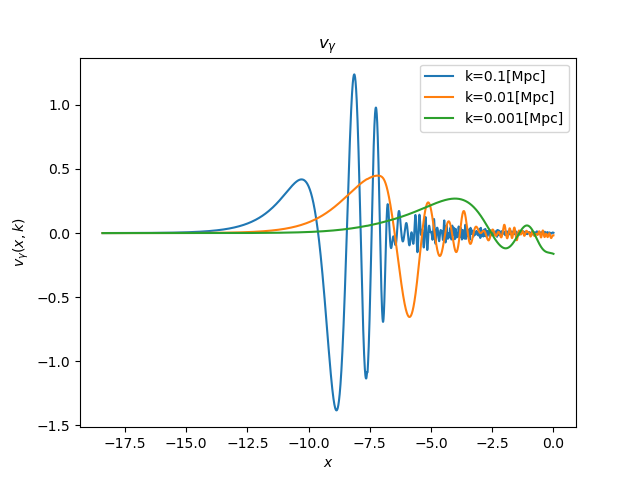
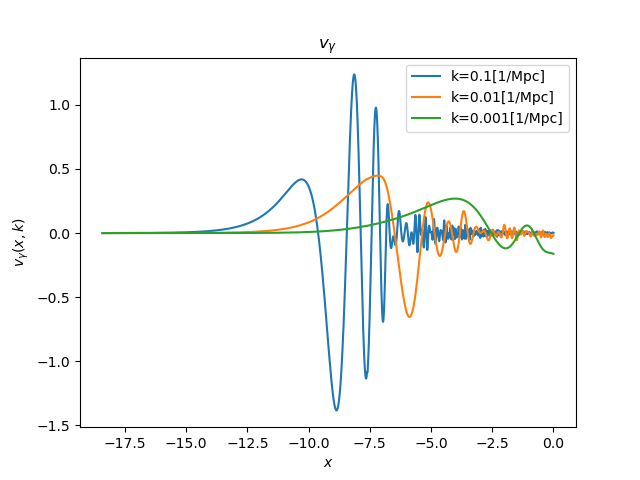
Changes and milestomn git add . clear

Changed region(s): [[0.6875, 0.125, 0.875, 0.2812], [0.625, 0.1562, 0.6562, 0.25]]

diff --git a/Plot_Milestone3.py b/Plot_Milestone3.py
@@ -41,13 +41,11 @@ v_cdm_001     = data001[:, 9]
 ST_001        = data001[:, 10]
 
 
-plt.plot(x,ST_1)
-plt.show()
-'''plt.plot(x, delta_cdm_1,label=r'$\delta_{CDM}$ - k=0.1[Mpc]')
-plt.plot(x, delta_cdm_01,label=r'$\delta_{CDM}$ - k=0.01[Mpc]')
-plt.plot(x, delta_cdm_001,label=r'$\delta_{CDM}$ - k=0.001[Mpc]')
-plt.plot(x, np.abs(delta_b_1),'--',label=r'$\delta_b$ - k=0.1[Mpc]')
-plt.plot(x, np.abs(delta_b_01),'--',label=r'$\delta_b$ - k=0.01[Mpc]')
+plt.plot(x, delta_cdm_1,label=r'$\delta_{CDM}$ - k=0.1[1/Mpc]')
+plt.plot(x, delta_cdm_01,label=r'$\delta_{CDM}$ - k=0.01[1/Mpc]')
+plt.plot(x, delta_cdm_001,label=r'$\delta_{CDM}$ - k=0.001[1/Mpc]')
+plt.plot(x, np.abs(delta_b_1),'--',label=r'$\delta_b$ - k=0.1[1/Mpc]')
+plt.plot(x, np.abs(delta_b_01),'--',label=r'$\delta_b$ - k=0.01[1/Mpc]')
 plt.plot(x, np.abs(delta_b_001),'--',label=r'$\delta_b$ - k=0.001[Mpc]')
 plt.yscale('log')
 plt.legend()
@@ -58,12 +56,12 @@ plt.ylabel(r'$\delta_{CDM}(x,k),\delta_b(x,k)$')
 plt.show()
 
 
-plt.plot(x, v_cdm_1,label=r'$v_{CDM}$ - k=0.1[Mpc]')
-plt.plot(x, v_cdm_01,label=r'$v_{CDM}$ - k=0.01[Mpc]')
-plt.plot(x, v_cdm_001,label=r'$v_{CDM}$ - k=0.001[Mpc]')
-plt.plot(x, np.abs(v_b_1),'--',label=r'$v_b$ - k=0.1[Mpc]')
-plt.plot(x, np.abs(v_b_01),'--',label=r'$v_b$ - k=0.01[Mpc]')
-plt.plot(x, np.abs(v_b_001),'--',label=r'$v_b$ - k=0.001[Mpc]')
+plt.plot(x, v_cdm_1,label=r'$v_{CDM}$ - k=0.1[1/Mpc]')
+plt.plot(x, v_cdm_01,label=r'$v_{CDM}$ - k=0.01[1/Mpc]')
+plt.plot(x, v_cdm_001,label=r'$v_{CDM}$ - k=0.001[1/Mpc]')
+plt.plot(x, np.abs(v_b_1),'--',label=r'$v_b$ - k=0.1[1/Mpc]')
+plt.plot(x, np.abs(v_b_01),'--',label=r'$v_b$ - k=0.01[1/Mpc]')
+plt.plot(x, np.abs(v_b_001),'--',label=r'$v_b$ - k=0.001[1/Mpc]')
 plt.yscale('log')
 plt.legend()
 plt.title(r'$v_b, v_{CDM}$')
@@ -73,9 +71,9 @@ plt.ylabel(r'$v_b(x,k), v_{CDM}(x,k)$')
 plt.show()
 
 
-plt.plot(x, 4*theta_1,label='k=0.1[Mpc]')
-plt.plot(x, 4*theta_01,label='k=0.01[Mpc]')
-plt.plot(x, 4*theta_001,label='k=0.001[Mpc]')
+plt.plot(x, 4*theta_1,label='k=0.1[1/Mpc]')
+plt.plot(x, 4*theta_01,label='k=0.01[1/Mpc]')
+plt.plot(x, 4*theta_001,label='k=0.001[1/Mpc]')
 plt.legend()
 plt.title(r'$\delta_\gamma$')
 plt.xlabel(r'$x$')
@@ -84,9 +82,9 @@ plt.ylabel(r'$\delta_\gamma(x,k)$')
 plt.show()
 
 
-plt.plot(x, -3*theta1_1,label='k=0.1[Mpc]')
-plt.plot(x, -3*theta1_01,label='k=0.01[Mpc]')
-plt.plot(x, -3*theta1_001,label='k=0.001[Mpc]')
+plt.plot(x, -3*theta1_1,label='k=0.1[1/Mpc]')
+plt.plot(x, -3*theta1_01,label='k=0.01[1/Mpc]')
+plt.plot(x, -3*theta1_001,label='k=0.001[1/Mpc]')
 plt.legend()
 plt.title(r'$v_\gamma$')
 plt.xlabel(r'$x$')
@@ -95,9 +93,9 @@ plt.ylabel(r'$v_\gamma(x,k)$')
 plt.show()
 
 
-plt.plot(x, phi_1,label='k=0.1[Mpc]')
-plt.plot(x, phi_01,label='k=0.01[Mpc]')
-plt.plot(x, phi_001,label='k=0.001[Mpc]')
+plt.plot(x, phi_1,label='k=0.1[1/Mpc]')
+plt.plot(x, phi_01,label='k=0.01[1/Mpc]')
+plt.plot(x, phi_001,label='k=0.001[1/Mpc]')
 plt.legend()
 plt.title(r'$\Phi$')
 plt.xlabel(r'$x$')
@@ -115,4 +113,3 @@ plt.xlabel(r'$x$')
 plt.ylabel(r'$\Psi(x,k)$')
 #plt.savefig('/Users/andreaswetzel/Documents/Master_Astro/2_semester/AST5220/AST5220-Cosmology/Figures_M3/psi.png')
 plt.show()
-'''

diff --git a/Plot_Milestone4.py b/Plot_Milestone4.py
@@ -7,11 +7,19 @@ CMB_ell  = CMB_data[:, 0]
 CMB_cell = CMB_data[:, 1]
 
 
-TT_data = np.loadtxt('low_ell_TT_data.txt',skiprows=1)
-TT_ell      = TT_data[:,0]
-TT_cell     = TT_data[:,1]
-TT_err_up   = TT_data[:,2]
-TT_err_down = TT_data[:,3]
+low_TT_data = np.loadtxt('low_ell_TT_data.txt',skiprows=1)
+low_TT_ell      = low_TT_data[:,0]
+low_TT_cell     = low_TT_data[:,1]
+low_TT_err_up   = low_TT_data[:,2]
+low_TT_err_down = low_TT_data[:,3]
+
+
+high_TT_data = np.loadtxt('high_ell_TT_data.txt',skiprows=1)
+high_TT_ell      = high_TT_data[:,0]
+high_TT_cell     = high_TT_data[:,1]
+high_TT_err_up   = high_TT_data[:,2]
+high_TT_err_down = high_TT_data[:,3]
+
 
 
 theta_data = np.loadtxt('theta_output.txt')
@@ -22,7 +30,7 @@ theta_100  = theta_data[:, 3]
 theta_200  = theta_data[:, 4]
 theta_500  = theta_data[:, 5]
 theta_1000 = theta_data[:, 6]
-eta0       = theta_data[:, 7]
+eta0       = 14253.3 # Mpc
 
 matter_data = np.loadtxt("matter_output.txt")
 kch         = matter_data[:,0]
@@ -33,31 +41,35 @@ theta_values = [theta_6,theta_100,theta_200,theta_500,theta_1000]
 theta_label  = [r"$\ell=6$",r"$\ell=100$",r"$\ell=200$",r"$\ell=500$",r"$\ell=1000$"]
 ell_values   = [6,100,200,500,1000]
 
-plt.plot(CMB_ell,CMB_cell)
-plt.errorbar(TT_ell,TT_cell,np.array([TT_err_down,TT_err_up]),fmt='o',markersize=2)
+'''plt.plot(CMB_ell,CMB_cell)
+plt.errorbar(low_TT_ell,low_TT_cell,np.array([low_TT_err_down,low_TT_err_up]),fmt='o',markersize=2,c='r')
+plt.errorbar(high_TT_ell,high_TT_cell,np.array([high_TT_err_down,high_TT_err_up]),fmt='o',markersize=2,c='r')
 plt.xscale('log')
 plt.title("CMB Power Spectrum")
 plt.xlabel(r'Multipole ${\ell}$')
 plt.ylabel(r'$\ell(\ell+1)C_\ell$ $(\mu K)^2$')
 plt.savefig('/Users/andreaswetzel/Documents/Master_Astro/2_semester/AST5220/AST5220-Cosmology/Figures_M4/CMB_PS.png')
 plt.show()
+'''
+
 
 
 for i in range(5):
-    plt.plot(kcH0,theta_values[i],label=theta_label[i])
+    plt.plot(k_theta,theta_values[i],label=theta_label[i])
 
-
-#plt.axvline(x=100/eta0, ls='--', color='black', label=r'$k = \ell/\eta_0$')
-
-
-plt.legend()
-plt.title('Transfer Function $\Theta_{\ell}(k)$')
-plt.xlabel(r'$ck/H_0$')
+plt.axvline(x=6/eta0, ls='--', color='black',label=r'$k = \ell/\eta_0$')
+plt.axvline(x=100/eta0, ls='--', color='black')
+plt.axvline(x=200/eta0, ls='--', color='black')
+plt.axvline(x=500/eta0, ls='--', color='black')
+plt.axvline(x=1000/eta0, ls='--', color='black')
+plt.xlabel(r'$k$' + ' [Mpc' + r'$^{-1}$' + ']')
 plt.ylabel(r'$\Theta_\ell$')
+plt.tight_layout()
+plt.legend()
 plt.savefig('/Users/andreaswetzel/Documents/Master_Astro/2_semester/AST5220/AST5220-Cosmology/Figures_M4/theta_ell.png')
 plt.show()
 
-
+'''
 for i in range(5):
     plt.plot(kcH0,theta_values[i]**2/k_theta,label=theta_label[i])
 
@@ -80,3 +92,4 @@ plt.ylabel(r'$P(k)[(Mpc/h)^3]$')
 plt.legend()
 plt.savefig('/Users/andreaswetzel/Documents/Master_Astro/2_semester/AST5220/AST5220-Cosmology/Figures_M4/MPS.png')
 plt.show()
+'''

diff --git a/Plot_Milestone1.py b/Plot_Milestone1.py
@@ -78,32 +78,38 @@ a_mlam = ((get_OmegaB[idx]+get_OmegaCDM[idx]) / get_OmegaLambda[idx])**(1/3) #Ma
 a_acc = ((get_OmegaB[idx]+get_OmegaCDM[idx]) / (2*get_OmegaLambda[idx]))**(1/3) #Accelerating universe
 
 
+Hx_H0 = [] #H/H_0
+for i in range(len(H0)):
+    Hx_H0.append(float(H_of_x[i]/H0[i]))
 
+Hp_H0 = [] #H/H_0
+for i in range(len(H0)):
+    Hp_H0.append(float(Hp_of_x[i]/H0[i]))
 
-plt.plot(a,H_of_x)
-plt.ylabel(r"$H(a)$")
+plt.plot(a,Hx_H0)
+plt.ylabel(r"$\frac{H}{H_0}$")
 plt.xlabel('Scalefactor a')
 plt.title('Hubble Parameter')
-plt.vlines(a_rm,-1e-5,1e-5,linestyles ="dashed",label='Matter-Radiation equality',color='b')
-plt.vlines(a_mlam,-1e-5,1e-5,linestyles ="dashed",label='Matter-Dark energy equality',color='g')
-plt.vlines(a_acc,-1e-5,1e-5,linestyles ="dashed",label='Accelerating universe',color='r')
+plt.vlines(a_rm,-1e-1,1e10,linestyles ="dashed",label='Matter-Radiation equality',color='b')
+plt.vlines(a_mlam,-1e-1,1e10,linestyles ="dashed",label='Matter-Dark energy equality',color='g')
+plt.vlines(a_acc,-1e-1,1e10,linestyles ="dashed",label='Accelerating universe',color='r')
 plt.legend()
 plt.yscale("log")
 plt.xscale("log")
-plt.savefig("Hubble Parameter.png")
+#plt.savefig('/Users/andreaswetzel/Documents/Master_Astro/2_semester/AST5220/AST5220-Cosmology/Figures_M1/Hubble Parameter.png')
 plt.show()
 
-plt.plot(a,Hp_of_x)
-plt.ylabel(r"$\mathcal{H}(a)$")
+plt.plot(a,Hp_H0)
+plt.ylabel(r"$\frac{\mathcal{H}}{H_0}$")
 plt.xlabel('Scalefactor a')
 plt.title('Scaled Hubble Parameter')
-plt.vlines(a_rm,1e-18,1e-11,linestyles ="dashed",label='Matter-Radiation equality',color='b')
-plt.vlines(a_mlam,1e-18,1e-11,linestyles ="dashed",label='Matter-Dark energy equality',color='g')
-plt.vlines(a_acc,1e-18,1e-11,linestyles ="dashed",label='Accelerating universe',color='r')
+plt.vlines(a_rm,1e0,1e5,linestyles ="dashed",label='Matter-Radiation equality',color='b')
+plt.vlines(a_mlam,1e-1,1e5,linestyles ="dashed",label='Matter-Dark energy equality',color='g')
+plt.vlines(a_acc,1e-1,1e5,linestyles ="dashed",label='Accelerating universe',color='r')
 plt.legend()
 plt.yscale("log")
 plt.xscale("log")
-plt.savefig('Scaled Hubble Parameter.png')
+#plt.savefig('/Users/andreaswetzel/Documents/Master_Astro/2_semester/AST5220/AST5220-Cosmology/Figures_M1/Scaled Hubble Parameter.png')
 plt.show()
 
 
@@ -118,9 +124,6 @@ ddHp_Hp = [] # Second Derivative of Hp
 for i in range(len(Hp_of_x)):
     ddHp_Hp.append(float(ddHpddx_of_x[i]/Hp_of_x[i]))
 
-Hx_H0 = [] #H/H_0
-for i in range(len(H0)):
-    Hx_H0.append(float(H_of_x[i]/H0[i]))
 
 
 

diff --git a/src/BackgroundCosmology.cpp b/src/BackgroundCosmology.cpp
@@ -312,7 +312,7 @@ void BackgroundCosmology::output(const std::string filename) const{
   double z_rm = 1/a_rm - 1; //Redshift z in Radiotion matter equality
   double t_rm = t_of_x((x_rm))/(pow(10,9)*365*24*60*60); //t in Radiotion matter equality
 
-  double a_MDE_ = (pow(( (get_OmegaB(0)+get_OmegaCDM(0) ) / get_OmegaLambda(0)  ),(1./3))); //Scalefactor a in matter-dark energy equality
+  double a_MDE_ = (pow(( (get_OmegaB(0)+get_OmegaCDM(0) ) / get_OmegaLambda(0)  ),(1.0/3.0))); //Scalefactor a in matter-dark energy equality
   double x_MDE_ = log(a_MDE_); //x in matter-dark energy equality
   double z_MDE_ = 1/a_MDE_ - 1; //Redshift z in matter-dark energy equality
   double t_MDE_ = t_of_x(log(a_MDE_))/(pow(10,9)*365*24*60*60); //t in matter-dark energy equality
@@ -362,6 +362,7 @@ void BackgroundCosmology::output(const std::string filename) const{
     fp << t_of_x(x)        << " ";
     fp << ddHpddx_of_x(x) << " ";
     fp << H_of_x(x) << " ";
+    //fp << H_of_x(x) / (100*Constants.Mpc*Constants.km) << " ";
     fp << H0 << " ";
     fp << get_z(x) << " ";
     fp << get_dA(x)/(Constants.Mpc) << " ";
